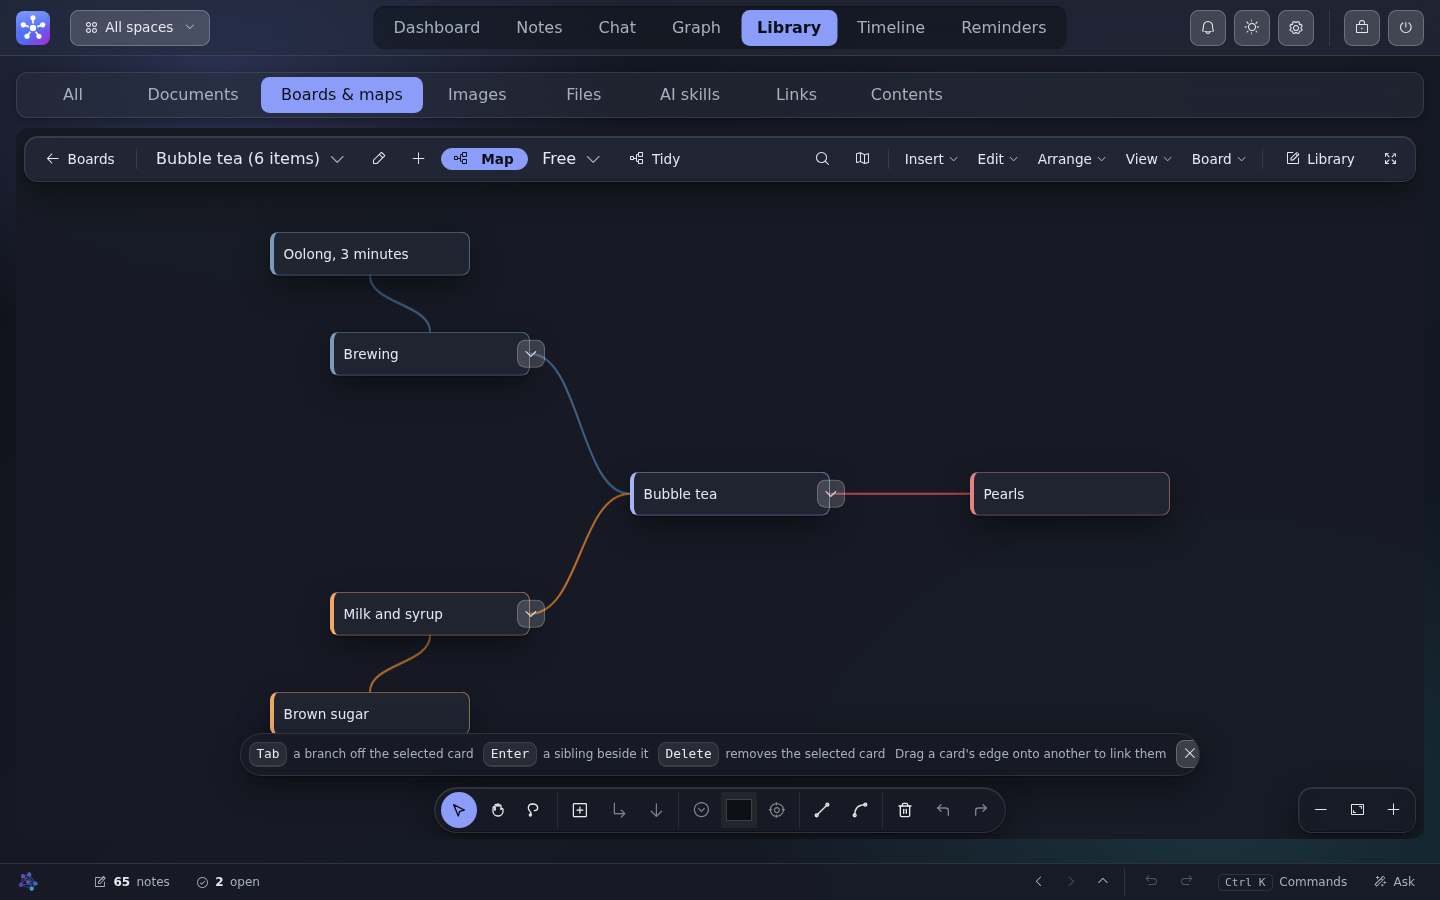
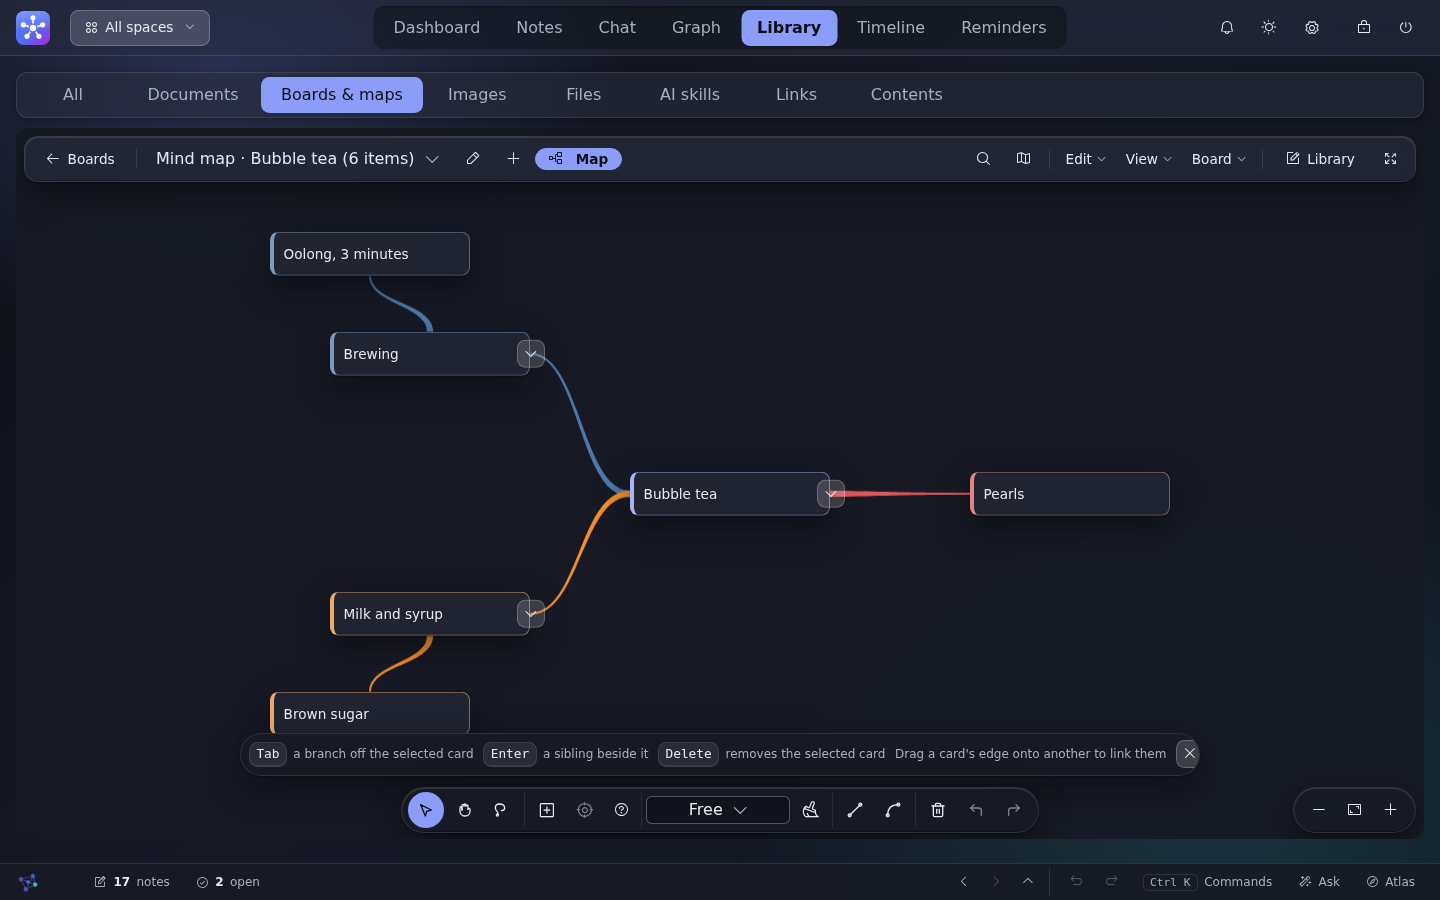
README: the OCR workspace joins the tour; every screenshot retaken
Fourteen captures from the seeded app on this head, with the OCR
workspace reading a real page through local Tesseract. The hero, the
status and the developing sections say what 0.3.0 is.

Claude-Session: https://claude.ai/code/session_01TDrFtNMQzyhymKfCS5reYn

diff --git a/README.md b/README.md
@@ -16,29 +16,26 @@
 
 ---
 
-Type a thought. A local AI files it, tags it and links it to what you
-already wrote. Later, ask a question in plain English and get an answer
-together with the notes it came from, so you can check it.
+Type a thought. A local model files it, tags it and links it to what you
+already wrote. Ask a question later and get an answer beside the notes it
+came from, sentence by sentence, so you can check it. Everything runs on
+your own computer: no account, no cloud, no telemetry. Your notes are one
+SQLite file in a folder you control, and the whole app works with no model
+running at all.
 
 ```
 capture a thought
-  -> the AI files it
+  -> Atlas files it
   -> ask a question
   -> an answer, with the notes behind it
 ```
-
-The AI files, you decide: everything it does can be seen, edited and
-undone. Everything runs on your own computer. No account, no cloud, no
-telemetry.
-Your notes are a SQLite file in a folder you control, and the app is fully
-usable with no AI model running at all.
 
 <p align="center">
   <img src="docs/screenshots/dashboard.png" alt="The MemoryMap AI dashboard: capture streak, notebook statistics, a constellation of your notes, pinned notes and recent activity" width="850">
 </p>
 
 <details>
-<summary><b>Twelve more screenshots</b>: Notes, Chat, Graph, Library, boards, concept maps, Documents, Timeline, Reminders, the features browser, the command palette and Appearance</summary>
+<summary><b>Thirteen more screenshots</b>: Notes, Chat, Graph, Library, the OCR workspace, boards, concept maps, Documents, Timeline, Reminders, the features browser, the command palette and Appearance</summary>
 <br>
 
 <p align="center">
@@ -62,13 +59,18 @@ usable with no AI model running at all.
 </p>
 
 <p align="center">
+  <img src="docs/screenshots/ocr.png" alt="The OCR workspace: a scanned page of meeting notes on the left, every region Tesseract read on the right with its confidence, and Save as note below" width="850">
+  <br><sub><b>OCR workspace</b>: a scanned page read locally, region by region, checkable and editable before it becomes a note</sub>
+</p>
+
+<p align="center">
   <img src="docs/screenshots/whiteboard.png" alt="A whiteboard board: coloured cards in three columns under a banner, with the tool rail along the bottom" width="850">
   <br><sub><b>Boards</b>: cards, drawings and images you arrange yourself</sub>
 </p>
 
 <p align="center">
   <img src="docs/screenshots/map.png" alt="A concept map: a central topic with coloured branches and leaves, and the keyboard hints for growing it" width="850">
-  <br><sub><b>Concept maps</b>: a branch with Tab, one beside it with Enter, tidied on demand</sub>
+  <br><sub><b>Mind maps</b>: a branch with Tab, one beside it with Enter, core ideas told apart by shape, fill and size</sub>
 </p>
 
 <p align="center">
@@ -245,7 +247,8 @@ vulnerability, see [SECURITY.md](SECURITY.md).
 ## Developing
 
 ```
-pytest                          # 3,000+ tests, about eight minutes, fully offline
+pytest                          # 3,600+ tests, ten to fifteen minutes, fully offline
+bash scripts/gate.sh --changed  # the routine local gate: lints, node --check, ruff, the tests that name your files
 ruff check .                    # what CI lints with
 node --check frontend/app.js    # the frontend has no build step
 ```
@@ -275,11 +278,12 @@ Python 3.11 to 3.13 on every push.
 
 ## Status
 
-Version 0.3.0. The core is built and stable: capture, chat, the graph,
-documents, the whiteboard and mind maps, private notes, themes, desktop
-packaging for Windows and Linux. Current work is a modernisation of the
-whole interface and a redesign of the graph, documents, timeline and chat
-surfaces, tracked in [docs/ROADMAP.md](docs/ROADMAP.md) and recorded in
+Version 0.3.0. The core is built and stable: capture, chat with checkable
+answers, the graph, documents, boards and mind maps, the OCR workspace,
+private notes, themes, desktop packaging for Windows and Linux. The
+interface was rebuilt on one design system in this release, measured
+rather than eyeballed, and the in-app guide has a name. What comes next,
+in order, is in [docs/ROADMAP.md](docs/ROADMAP.md); what changed is in
 [CHANGELOG.md](CHANGELOG.md).
 
 ## Licence
